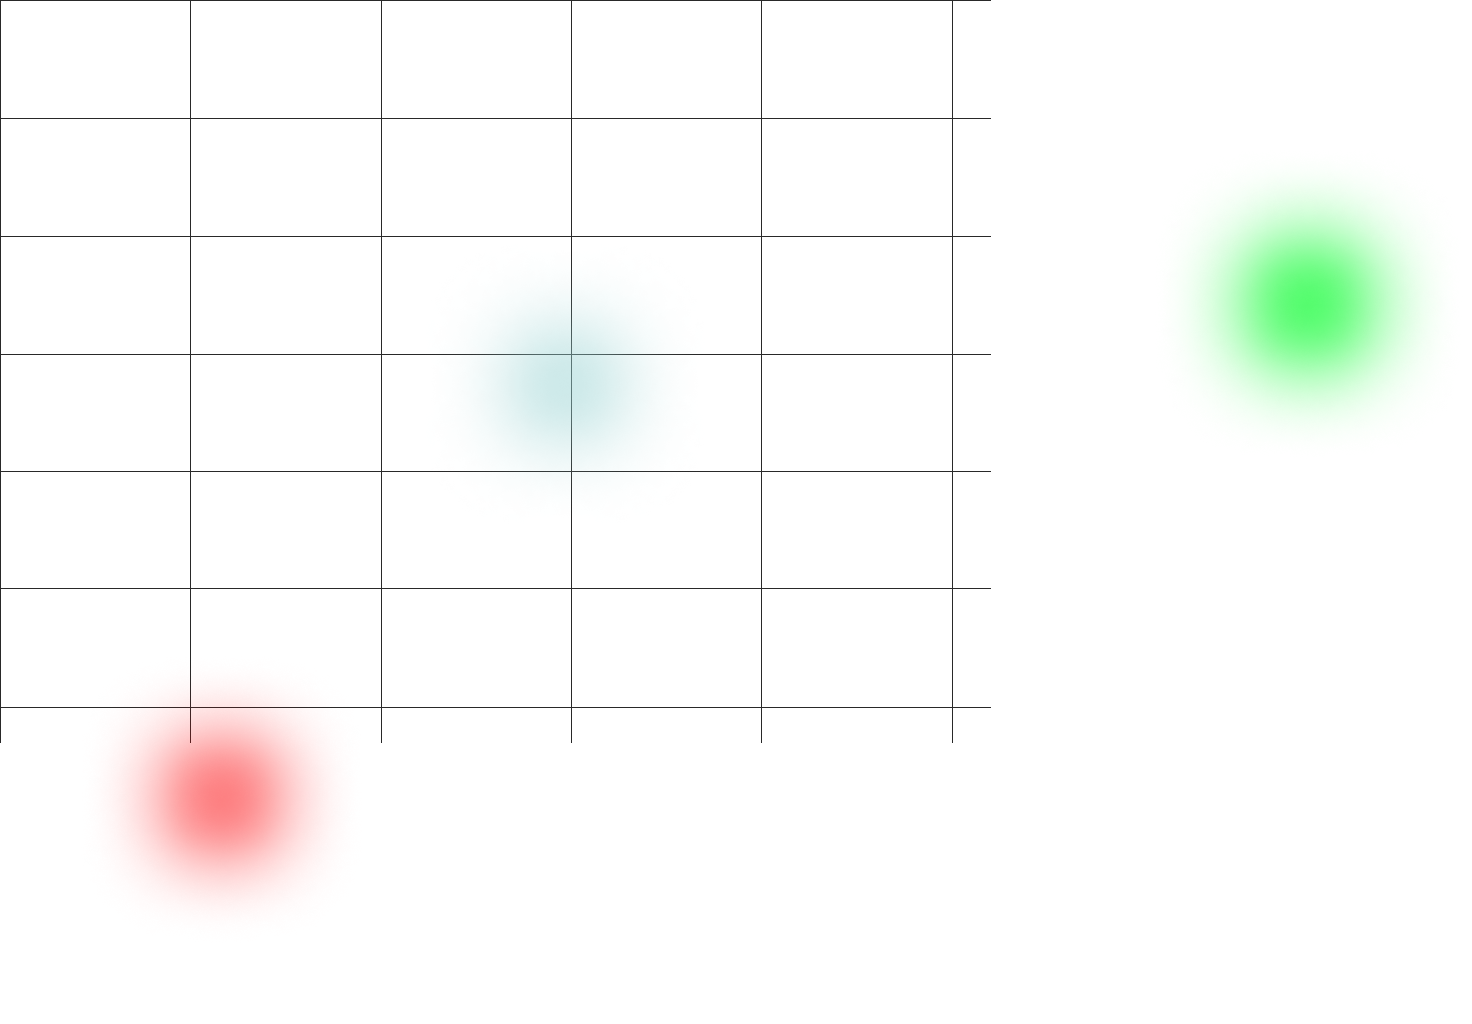
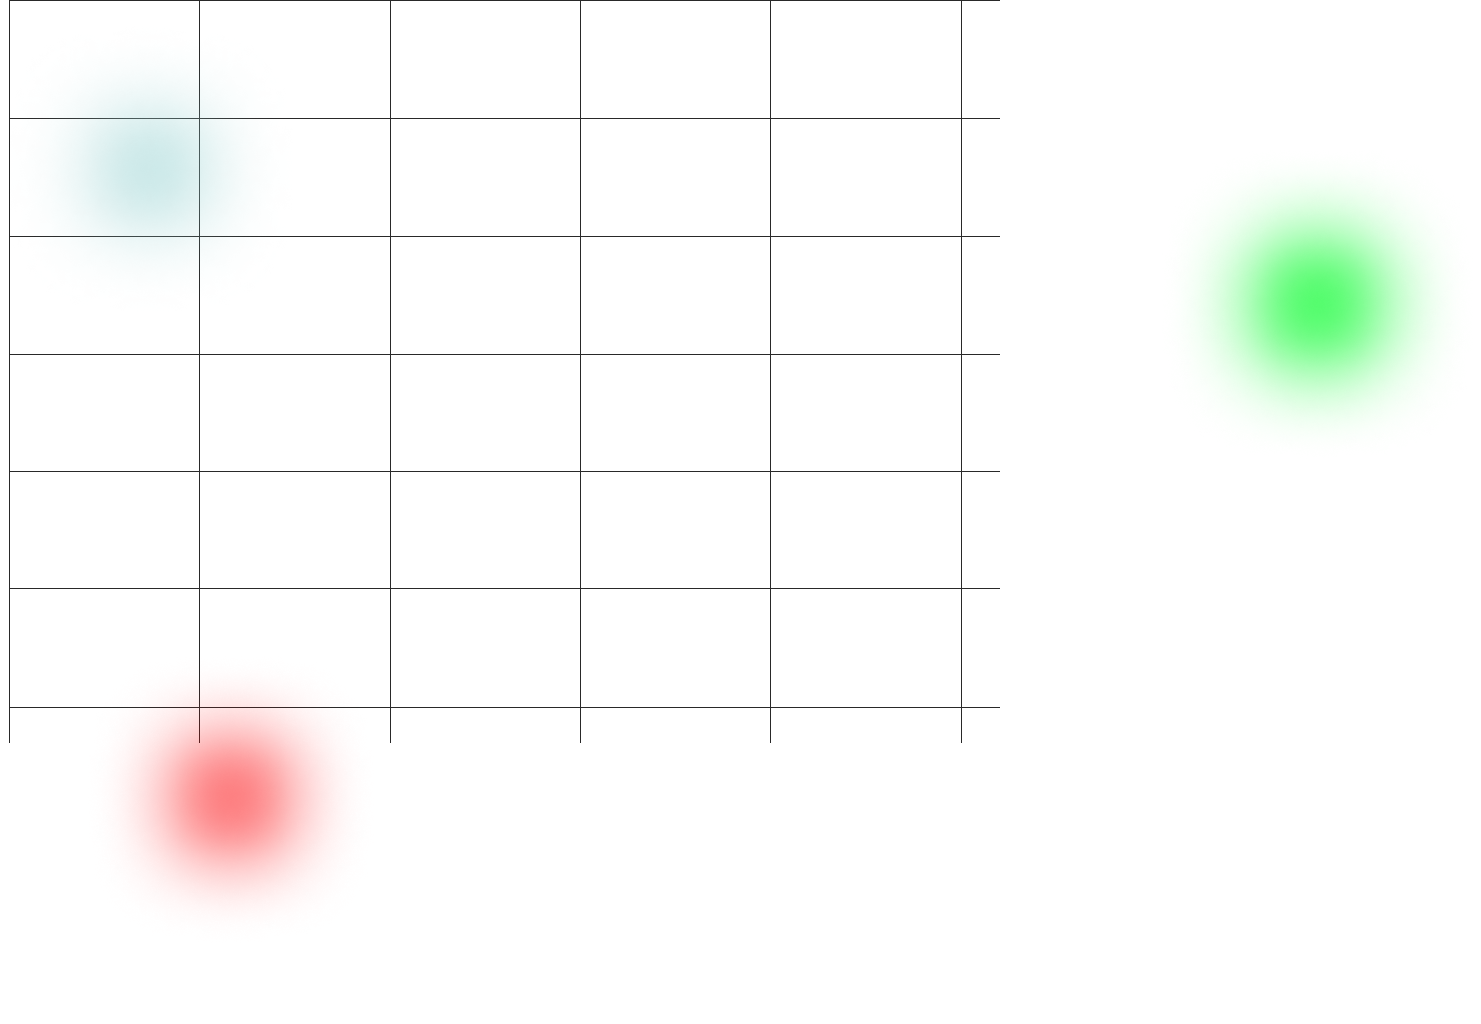
Making Testimony Section

Changed region(s): [[0.0625, 0.0938, 0.1562, 0.25], [0.3438, 0.3125, 0.4375, 0.4375]]

diff --git a/assets/stylesheets/_testimonies.css b/assets/stylesheets/_testimonies.css
@@ -1,0 +1,88 @@
+
+/* Container */
+
+/* Testimonies */
+
+/* .testimonySection {
+    width: 100%;
+    height: auto;
+    display: flex;
+    justify-content: center;
+    align-items: center;
+    margin: 150px auto;
+
+    .testimonyContainer {
+        max-width: 1300px;
+        width: 100%;
+        height: auto;
+        display: grid;
+        grid-template-columns: repeat(auto-fit, minmax(250px, 1fr));
+        gap: 50px;
+        justify-items: center;
+        align-items: center;
+        padding: 16px;
+
+        .testimonyBlock {
+            width: 100%;
+            display: flex;
+            flex-direction: column;
+            justify-content: center;
+            align-items: center;
+
+            .colorSquare {
+                width: 100%;
+                max-width: 250px;
+                height: auto;
+                margin: auto;
+                transition: filter 0.3s ease-in-out;
+            }
+            &:hover .colorSquare {
+                filter: none;
+            }
+        }
+        &:hover .testimonyBlock:not(:hover) .colorSquare {
+            filter: blur(6px);
+        }
+    }
+} */
+
+.testimonySection {
+    width: 100%;
+    height: auto;
+    display: flex;
+    justify-content: center;
+    align-items: center;
+    margin: 150px auto;
+
+    .testimonyContainer {
+        max-width: 1300px;
+        width: 100%;
+        height: auto;
+        display: grid;
+        grid-template-columns: repeat(auto-fit, minmax(250px, 1fr));
+        gap: 50px;
+        justify-items: center;
+        align-items: center;
+        /* padding: 16px; */
+        .testimonyBlock {
+            width: 100%;
+            display: flex;
+            flex-direction: column;
+            justify-content: center;
+            align-items: center;
+            .colorSquare {
+                width: 100%;
+                max-width: 250px;
+                height: auto;
+                margin: auto;
+                transition: filter 0.3s ease-in-out;
+            }
+        }
+        &:has(.testimonyBlock:hover) .testimonyBlock:not(:hover) .colorSquare {
+            filter: blur(6px);
+        }
+        .testimonyBlock:hover .colorSquare {
+            filter: none;
+        }
+    }
+}

diff --git a/index.html b/index.html
@@ -740,6 +740,50 @@
             </div>
         </section>
 
+        <!-- Testimonies -->
+
+        <section class="testimonySection">
+            <div class="testimonyContainer">
+                <section class="testimonyBlock">
+                    <img src="img/imageDefault.png" class="colorSquare" alt="Square">
+                </section>
+                <section class="testimonyBlock">
+                    <img src="img/image1.png" class="colorSquare" alt="Square">
+                </section>
+                <section class="testimonyBlock">
+                    <img src="img/image2.png" class="colorSquare" alt="Square">
+                </section>
+                <section class="testimonyBlock">
+                    <img src="img/image3.png" class="colorSquare" alt="Square">
+                </section>
+                <section class="testimonyBlock">
+                    <img src="img/image4.png" class="colorSquare" alt="Square">
+                </section>
+                <section class="testimonyBlock">
+                    <img src="img/image1.png" class="colorSquare" alt="Square">
+                </section>
+                <section class="testimonyBlock">
+                    <img src="img/imageDefault.png" class="colorSquare" alt="Square">
+                </section>
+                <section class="testimonyBlock">
+                    <img src="img/image1.png" class="colorSquare" alt="Square">
+                </section>
+                <section class="testimonyBlock">
+                    <img src="img/image2.png" class="colorSquare" alt="Square">
+                </section>
+                <section class="testimonyBlock">
+                    <img src="img/image3.png" class="colorSquare" alt="Square">
+                </section>
+                <section class="testimonyBlock">
+                    <img src="img/image4.png" class="colorSquare" alt="Square">
+                </section>
+                <section class="testimonyBlock">
+                    <img src="img/image1.png" class="colorSquare" alt="Square">
+                </section>
+            </div>
+
+        </section>
+
     </menu>
 
     <!-- Footer -->

diff --git a/assets/stylesheets/main.css b/assets/stylesheets/main.css
@@ -4,5 +4,6 @@
 @import "_options.css";
 @import "_wrap.css";
 @import "_tags.css";
+@import "_testimonies.css";
 @import "_footer.css";
 
